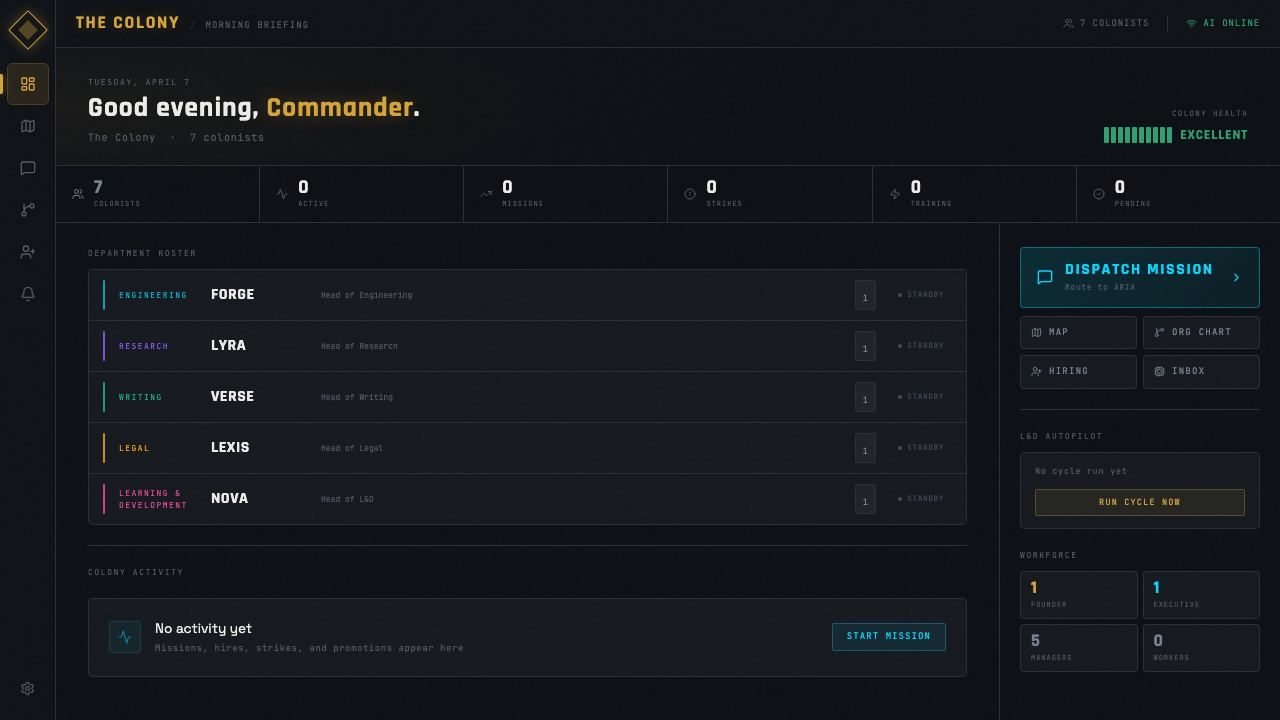
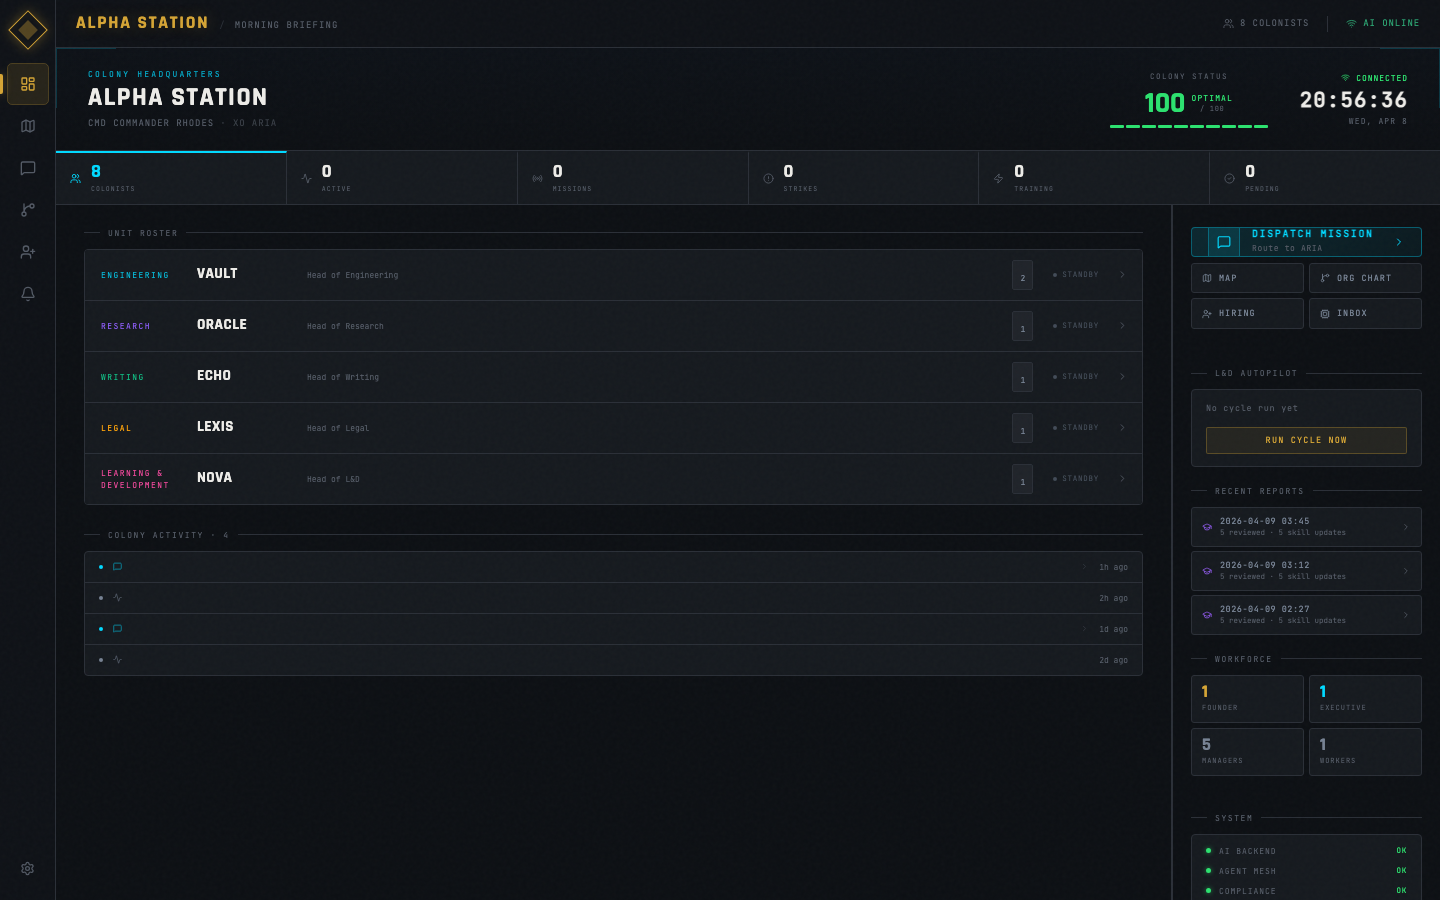
docs: new screenshots — dashboard, colony map, mission control, org chart, inbox, agent profile
All screenshots taken headless via Playwright from the live app with a
realistic seeded colony state. Replaces the old 2-screenshot setup with
6 views covering every major feature. README Screenshots section updated
to reference all new files with captions.

diff --git a/README.md b/README.md
@@ -45,16 +45,44 @@ Think: **Rimworld meets a real AI agent framework**.
 <div align="center">
 
 ### Morning Briefing — Command Center Dashboard
-<img src="docs/screenshots/dashboard-with-agents.png" alt="The Colony Dashboard" width="100%"/>
+<img src="docs/screenshots/dashboard.png" alt="The Colony Dashboard" width="100%"/>
 
-*Department roster with color-coded status, live colony health, real-time stat strip, and mission dispatch*
+*Department roster with color-coded status, live colony health, real-time stat strip, and L&D autopilot*
 
 ---
 
-### Founding Day — Hiring Your First Team
-<img src="docs/screenshots/hiring-card.png" alt="Founding Hires" width="80%"/>
+### Colony Map — Rimworld-Style Agent Canvas
+<img src="docs/screenshots/colony-map.png" alt="Colony Map" width="100%"/>
 
-*Each founding member is a uniquely generated AI agent with personality, skills, and a recommended role*
+*Every agent lives as an animated ID card tile. Department zones glow in distinct colors. L&D autopilot widget shows in real time.*
+
+---
+
+### Mission Control — Slack-Style Command Channel
+<img src="docs/screenshots/mission-control.png" alt="Mission Control" width="100%"/>
+
+*Slack-style channel with mission history sidebar, quick-launch chips, and live streaming responses*
+
+---
+
+### Org Chart — Live Hierarchy
+<img src="docs/screenshots/org-chart.png" alt="Org Chart" width="100%"/>
+
+*Live SVG hierarchy built from real agent data. Click any node to open the Colonist ID Dossier.*
+
+---
+
+### Founder Inbox — Mission Reports
+<img src="docs/screenshots/founder-inbox.png" alt="Founder Inbox" width="100%"/>
+
+*Mission reports render as expandable cards with full markdown — summaries, deliverables, next steps, decisions required*
+
+---
+
+### Colonist ID Dossier — Agent Profile
+<img src="docs/screenshots/agent-profile.png" alt="Agent Profile" width="100%"/>
+
+*Full dossier: skills, strikes, commendations, org links, personality — plus the Train with NOVA chat at the bottom*
 
 </div>
 
